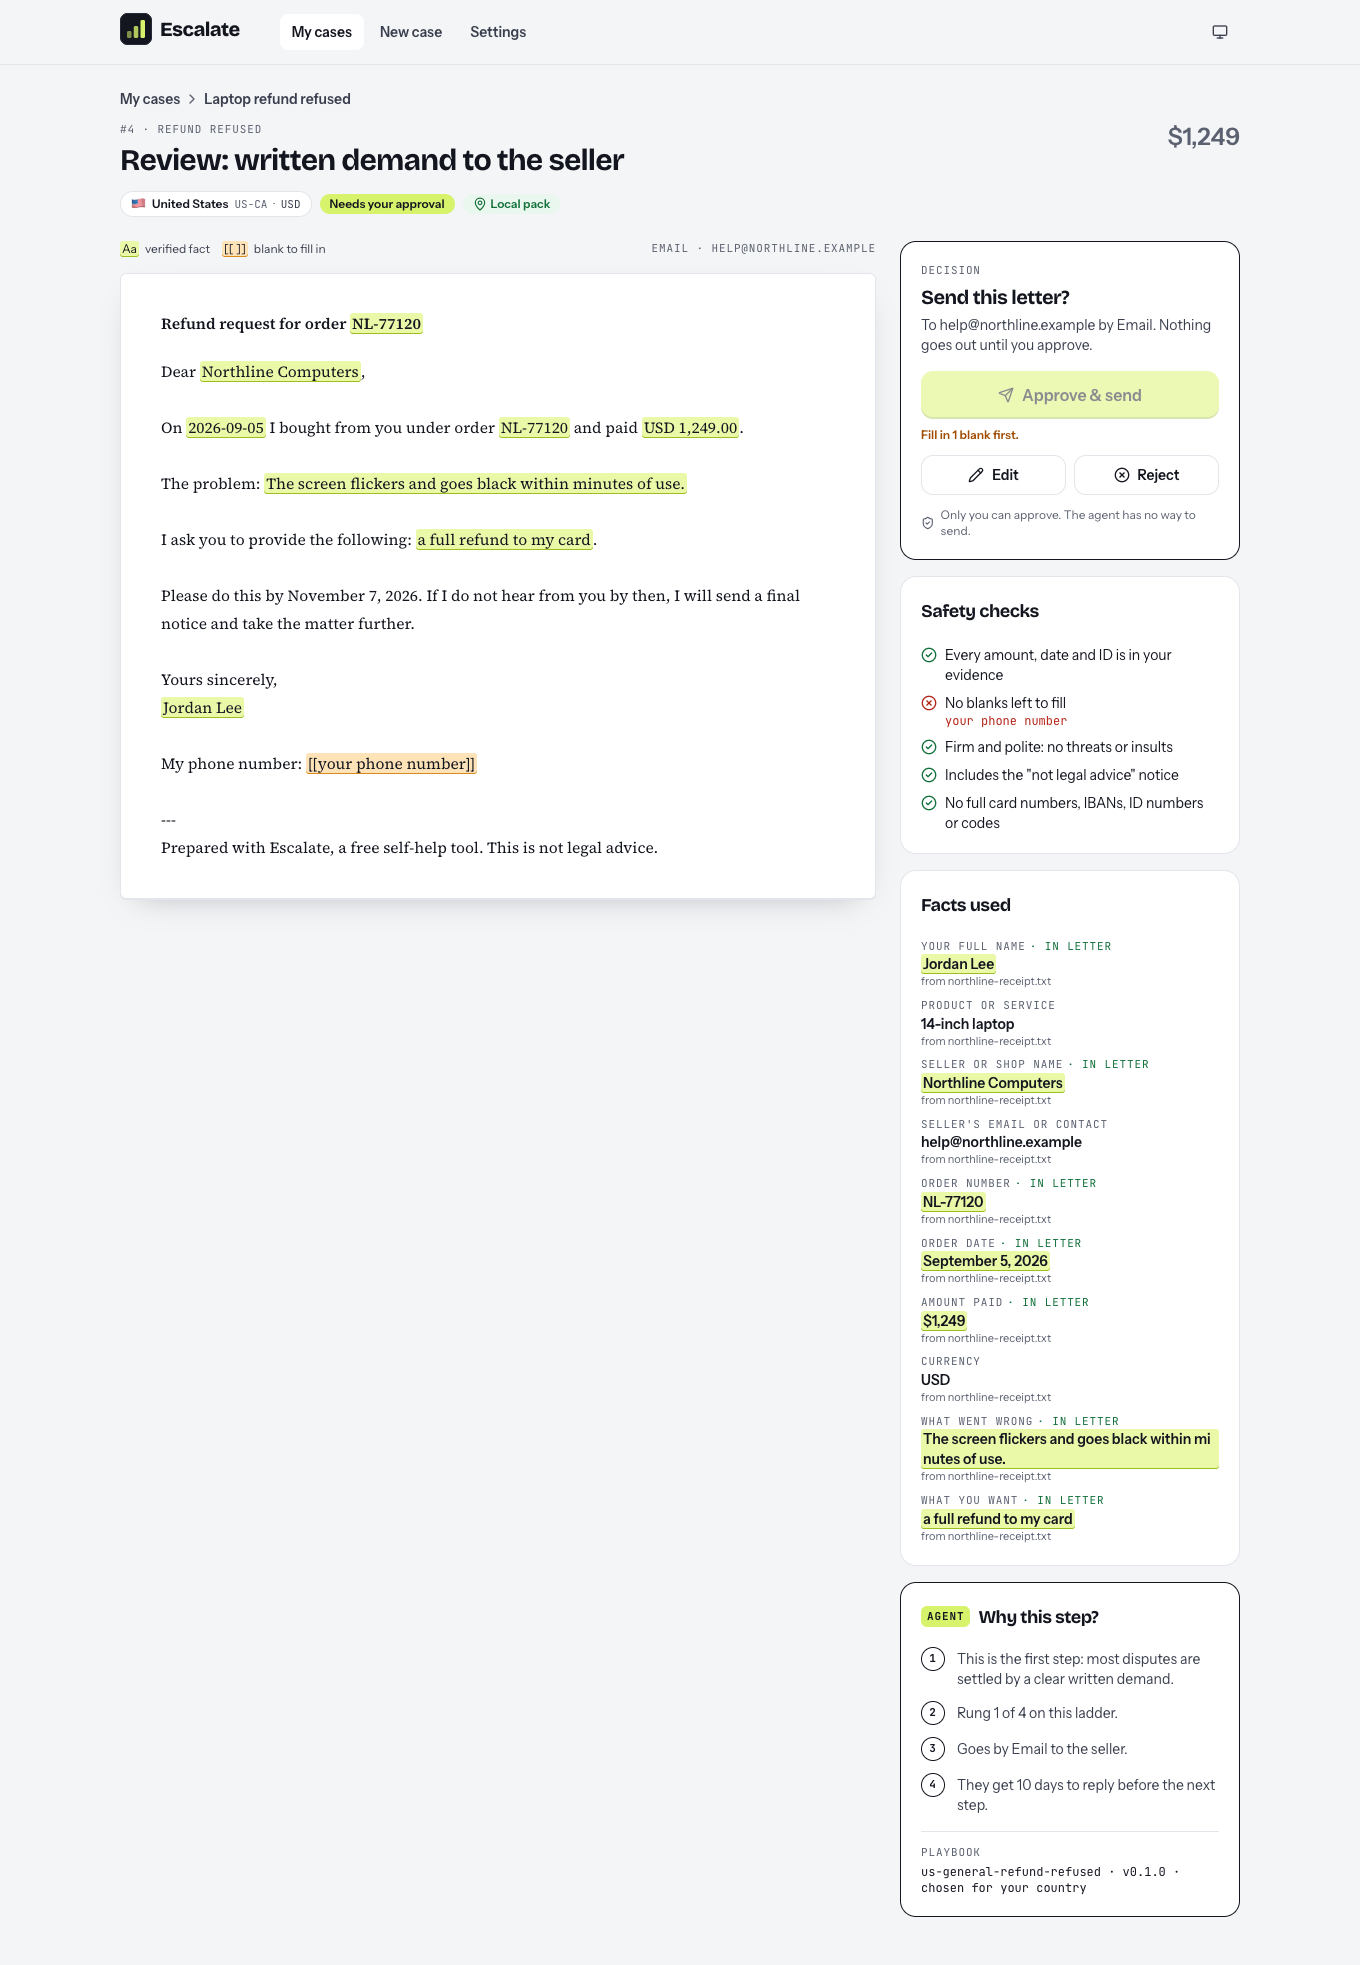
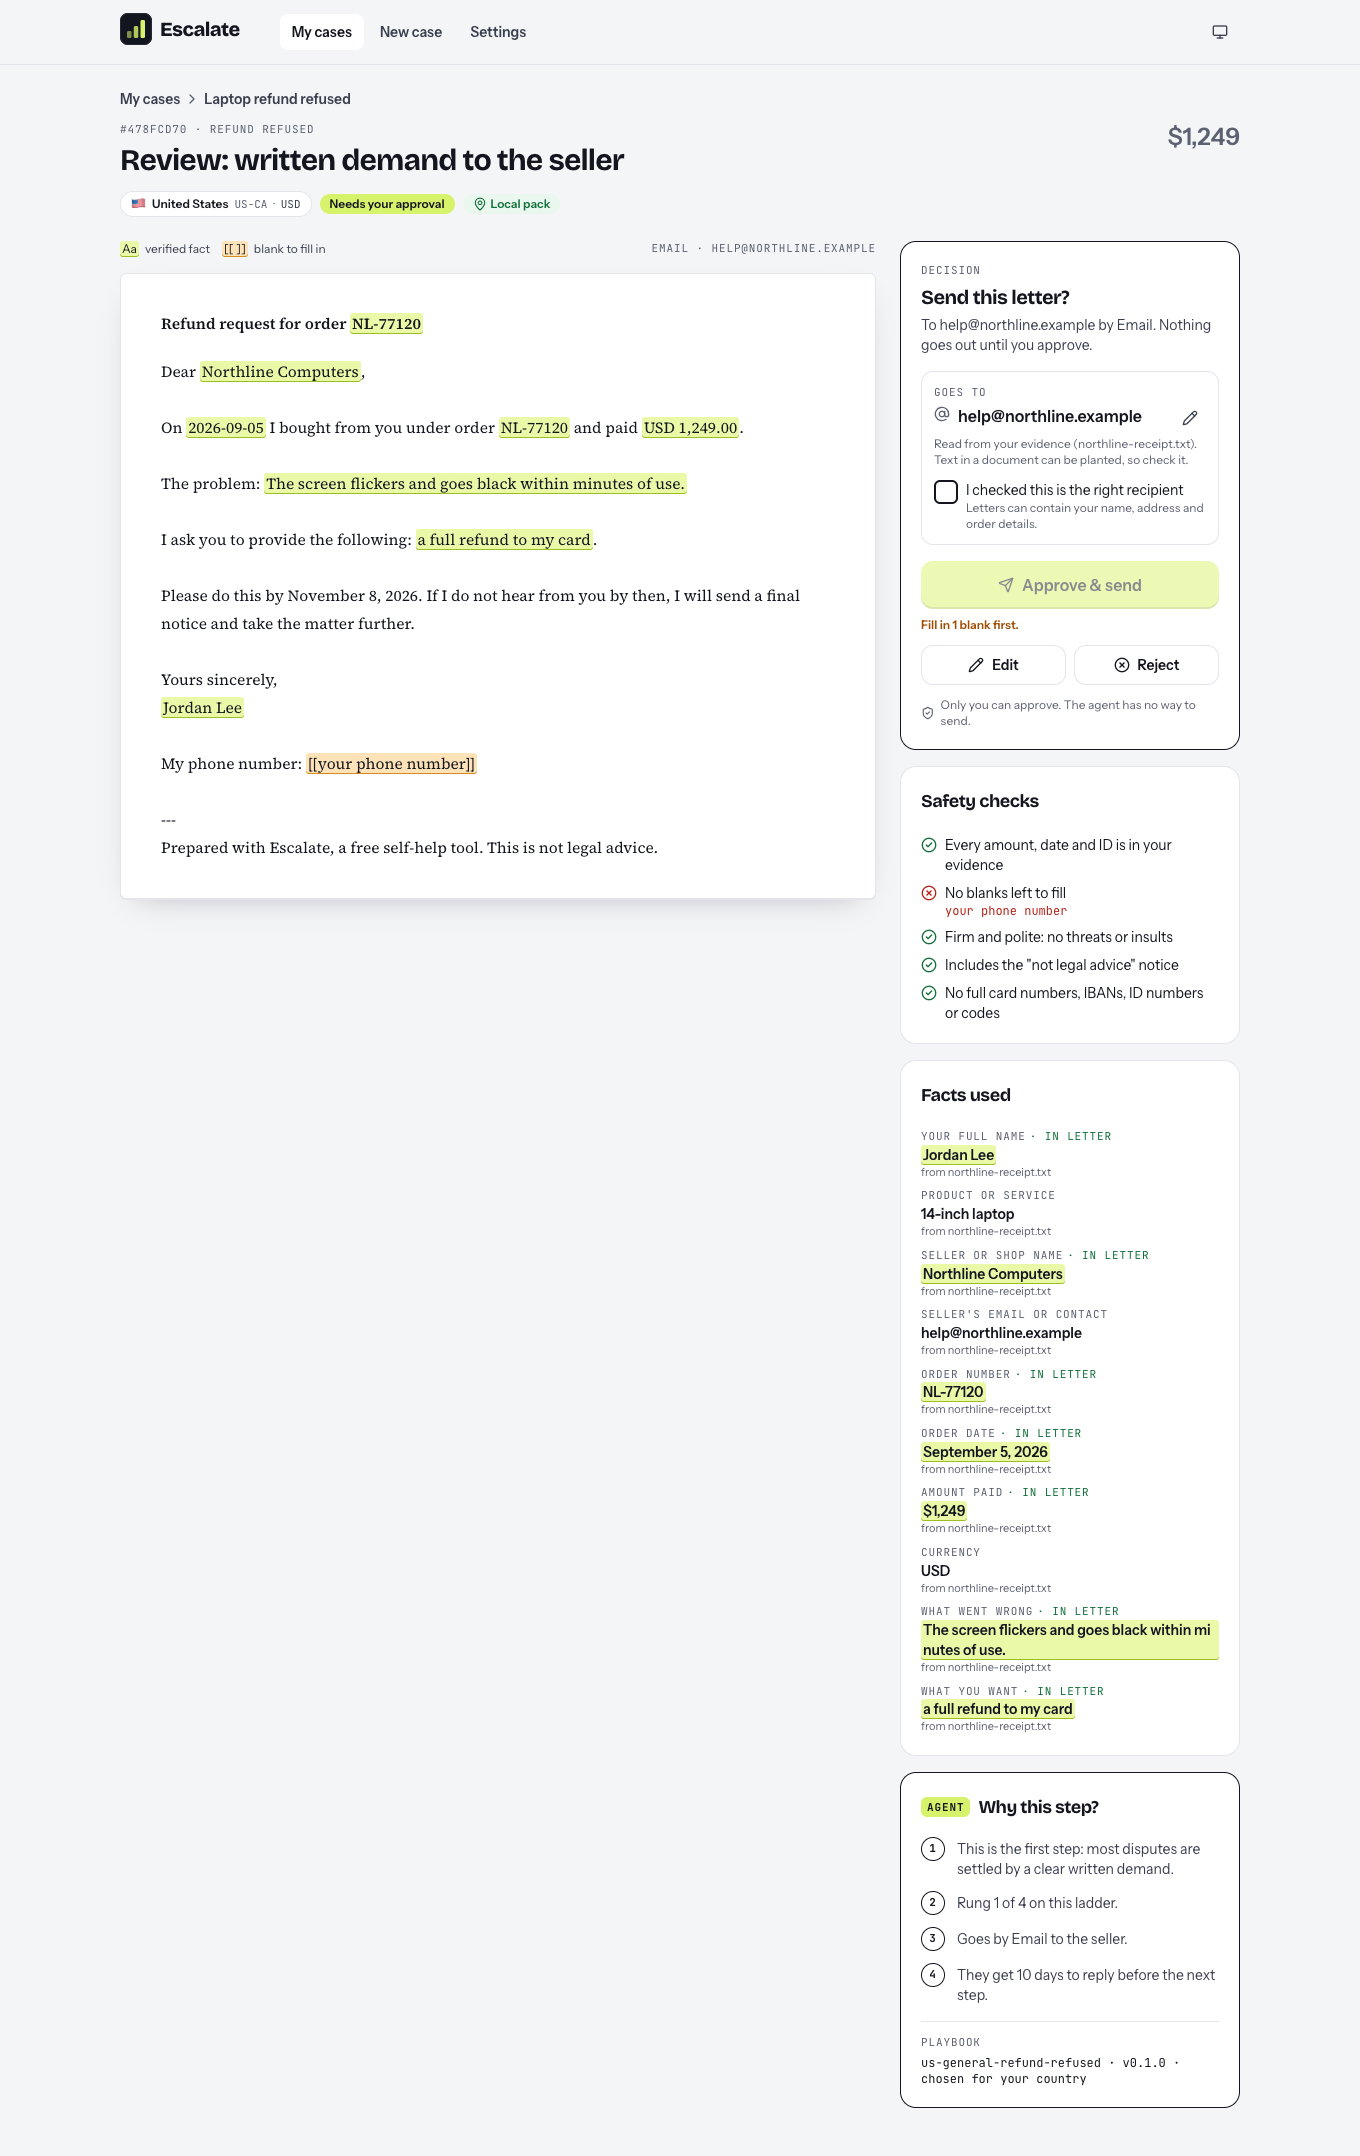
docs: security hardening in SECURITY.md; regenerate screenshots
SECURITY.md maps each attack from the independent review to its defence
and regression test, and states the remaining limits (no login; same-user
local programs; DNS changing between check and connect). .env.example
documents UI_ORIGIN, ALLOWED_HOSTS, ALLOW_LAN and LOCAL_ENDPOINT_HOSTS.
Case references show the first 8 characters of the public id.
Screenshots regenerated against a throwaway DEMO_MODE API.

diff --git a/web/src/app/cases/cases-list.tsx b/web/src/app/cases/cases-list.tsx
@@ -85,7 +85,7 @@ function CaseCard({ c }: { c: CaseSummary }) {
           {urgent && <AlertTriangle className="me-1 inline size-3.5 align-[-2px]" aria-hidden />}
           {nextStep(c)}
         </span>
-        <span className="label-mono text-muted">#{c.id}</span>
+        <span className="label-mono text-muted">#{c.id.slice(0, 8)}</span>
       </div>
       <div className="min-w-0">
         <h3 className="font-display text-xl leading-tight">

diff --git a/web/src/app/cases/[id]/case-header.tsx b/web/src/app/cases/[id]/case-header.tsx
@@ -98,7 +98,7 @@ export function CaseHeader({
       <div className="flex flex-wrap items-start justify-between gap-3">
         <div className="min-w-0">
           <p className="label-mono text-muted">
-            #{c.id} · {t(c.case_type ?? "unknown")}
+            #{c.id.slice(0, 8)} · {t(c.case_type ?? "unknown")}
           </p>
           {heading ? (
             <h1 className="mt-1 font-display text-3xl leading-tight">{heading}</h1>

diff --git a/SECURITY.md b/SECURITY.md
@@ -27,10 +27,26 @@ anything that lets Escalate be used to harass someone.
 | Demo mode | `DEMO_MODE=true`: email is never really sent (approval is still required), uploads are capped at 5 MB, and cases are deleted after 24 hours. | `tests/test_security.py` |
 | Cloud privacy warning | When `LLM_BASE_URL` is not local, the UI warns before you send real personal data. | `tests/test_llm.py`, `tests/test_ui.py` |
 
+## Network and request hardening (after the independent review)
+
+| Attack from the review | Defence | Regression test |
+| --- | --- | --- |
+| Cross-site form / `fetch(no-cors)` approves a letter, deletes all cases, uploads evidence, starts/retries cases, changes settings (CSRF) | Every POST/PUT/PATCH/DELETE needs an allowed `Origin` (`WEB_ORIGIN`, `UI_ORIGIN`) **and** `X-Escalate-Request: 1`. Approve and delete-all also need a JSON body `{"confirm": true}`. | `tests/test_attacks.py` (CSRF section) |
+| DNS rebinding (attacker domain resolving to 127.0.0.1) | `TrustedHostMiddleware`, `ALLOWED_HOSTS` (default `localhost,127.0.0.1`) | `test_unknown_host_header_is_refused` |
+| Docker ports open to the whole network | Ports bind to 127.0.0.1; `make up ALLOW_LAN=true` opens them with a loud no-login warning | `tests/test_packaging.py` |
+| SMTP without certificate checks (password readable by a network attacker) | `ssl.create_default_context()` for SMTP_SSL and STARTTLS | `tests/test_smtp_tls.py` (self-signed server refused) |
+| SSRF through `LLM_BASE_URL` / `SMTP_HOST`, stored key sent to a new host | Link-local and cloud-metadata addresses always refused (also via DNS / IPv4-mapped IPv6); private/loopback only for `LOCAL_ENDPOINT_HOSTS`; checked on save and before connecting; changing a host clears its stored secret | `tests/test_attacks.py` (SSRF section) |
+| Prompt injection: planted recipient in evidence, crafted "resolved" reply | The user must confirm the exact recipient to approve (with a "recipient changed" warning); evidence never overwrites facts the user typed; a "resolved" verdict waits for the user's confirmation | `tests/test_attacks.py` (prompt-injection section) |
+| `/health` leaked configuration; guessable ids; plain-text secrets | `/health` is `{"ok": true}`; cases and messages use UUID public ids in the API; saved secrets are Fernet-encrypted | `tests/test_attacks.py` |
+
 ## Known limits (v0.1)
 
 - **Single user, no login.** Run Escalate on your own machine or behind your own access
-  control. Do not expose the API to the internet.
+  control. Do not expose the API to the internet. The CSRF, Host and port protections above
+  defend against other *websites* and other *machines*, not against other programs running as
+  you on the same computer.
+- Endpoint checks resolve DNS when settings are saved and again before connecting; a hostname
+  that changes its DNS answer between that check and the connection is not fully covered.
 - The rate limiter is in memory (one API process).
 - Masking is pattern-based. It will miss unusual ID formats; please report the ones it misses.
 - Case text and facts in the SQLite database are masked but not encrypted; protect the

diff --git a/docs/PROGRESS.md b/docs/PROGRESS.md
@@ -28,3 +28,4 @@ One line per task from `CLAUDE_CODE_PLAN.md`: task id, what was built, test resu
 - **web** — Next.js web app in `web/` (App Router, TypeScript, Tailwind 4, shadcn-style UI, next-intl en + 7 empty locales, full RTL, light/dark): landing, 5-step new-case wizard, my cases, dashboard, review draft (verified facts/blanks highlighted, side-by-side language, safety checks, confirm dialog), log a reply (verdict + override), scam checklist, settings; API additions (countries, review, preview, letter language, verdict override, settings, delete-all, demo seed, CORS for the web origin only); `make demo-data`; web in compose/Makefile; CI `web` (lint, typecheck, messages, build) and `web-e2e` (Playwright smoke incl. Arabic RTL and dark mode); 23 screenshots in docs/screenshots — 269 Python tests passed, 3 skipped; 11 Playwright tests passed locally (system Chrome); ruff+mypy+eslint+tsc clean
 - **fix: API "hangs" on startup** — not a hang: alembic's fileConfig() (run by init_db) disabled uvicorn's loggers, so "Application startup complete", access logs and tracebacks vanished; startup took <1 s. Migrations no longer configure logging inside the app. The demo-data 500 was a blank duplicate FERNET_KEY= in .env overriding the real key; setup_env.sh used to *replace* the real key in that case (fixed), and startup now warns about duplicate .env keys and an empty FERNET_KEY. `make api` added. Startup test: lifespan completes offline in <5 s — 274 passed, 3 skipped; ruff+mypy clean
 - **pre-release polish** — (1) English-only v0.1 behind ENABLED_LETTER_LANGUAGES / NEXT_PUBLIC_ENABLED_LOCALES, selectors hidden, RTL spec skipped; (2) case titles (migration e73f0d0b09bd with backfill, PATCH rename, PDF cover, demo titles); (3) one money format (format_amount; shared fixture table tested in Python and Node); (4) My cases sorted 2-column card grid with real next steps and days left; (5) landing copy; (6) next-themes replaced (no script tag in components), UTC dates, console/hydration guard on prod and next dev; also fixed tests reading the developer's .env — 292 Python passed, 3 skipped; web lint/typecheck/messages/unit (12) clean; Playwright 12 passed, 1 skipped (RTL, by design); migration up/down verified on a copy of escalate.db; screenshots regenerated against a throwaway DEMO_MODE API
+- **security fixes (independent review)** — CSRF guard (allowed Origin + X-Escalate-Request on every state change; JSON confirmation for approve/delete-all), TrustedHost (DNS rebinding), Docker ports on 127.0.0.1 (ALLOW_LAN opt-in with warning), verified SMTP TLS, SSRF guard + secrets tied to their host, user-confirmed recipient + "resolved" confirmation (prompt injection), status-only /health, UUID public ids (migration f42dcc77bddb), Fernet-encrypted saved secrets; every reported reproduction replayed live and now fails — 332 Python passed, 3 skipped; web lint/typecheck/messages/unit clean; Playwright 12 passed + 1 skipped (RTL), guard green on prod and next dev; migrations up/down verified on a copy of escalate.db

diff --git a/docs/DECISIONS.md b/docs/DECISIONS.md
@@ -381,3 +381,18 @@ Defaults chosen during the autonomous build, with the reason for each.
 - `web/e2e/console-guard.spec.ts` loads every page in light and dark and fails on any console
   error or warning, uncaught error or hydration error. CI runs it against the production build
   *and* `next dev` (React's detailed warnings only exist in development).
+
+## Security hardening after the independent review
+- CSRF: allowed Origin **and** a custom header on every state-changing request (forms can't
+  set custom headers; setting one forces a CORS preflight). Non-browser callers (Streamlit UI,
+  `make demo-data`, Playwright) send both explicitly. Approve and delete-all also need a JSON
+  confirmation body.
+- The approval itself now names the recipient the user checked (`approve_message(...,
+  recipient=...)`), so the check holds in the core, not only in the web UI.
+- "Resolved" verdicts pause in a `confirm_resolution` graph step. The user's own verdict
+  override to "resolved" replays as if confirmed (they are the one choosing it).
+- Public ids: UUID columns next to the integer keys (no key migration); the API converts at
+  the boundary with `CasePk`/`MessagePk` dependencies. Evidence ids stay integers: they are not
+  addressable by URL and confirm-delivery checks the evidence belongs to the case.
+- Secrets in `data/settings.json` are Fernet-encrypted with `FERNET_KEY`, like evidence; values
+  written before this change are still read and get encrypted on the next save.
